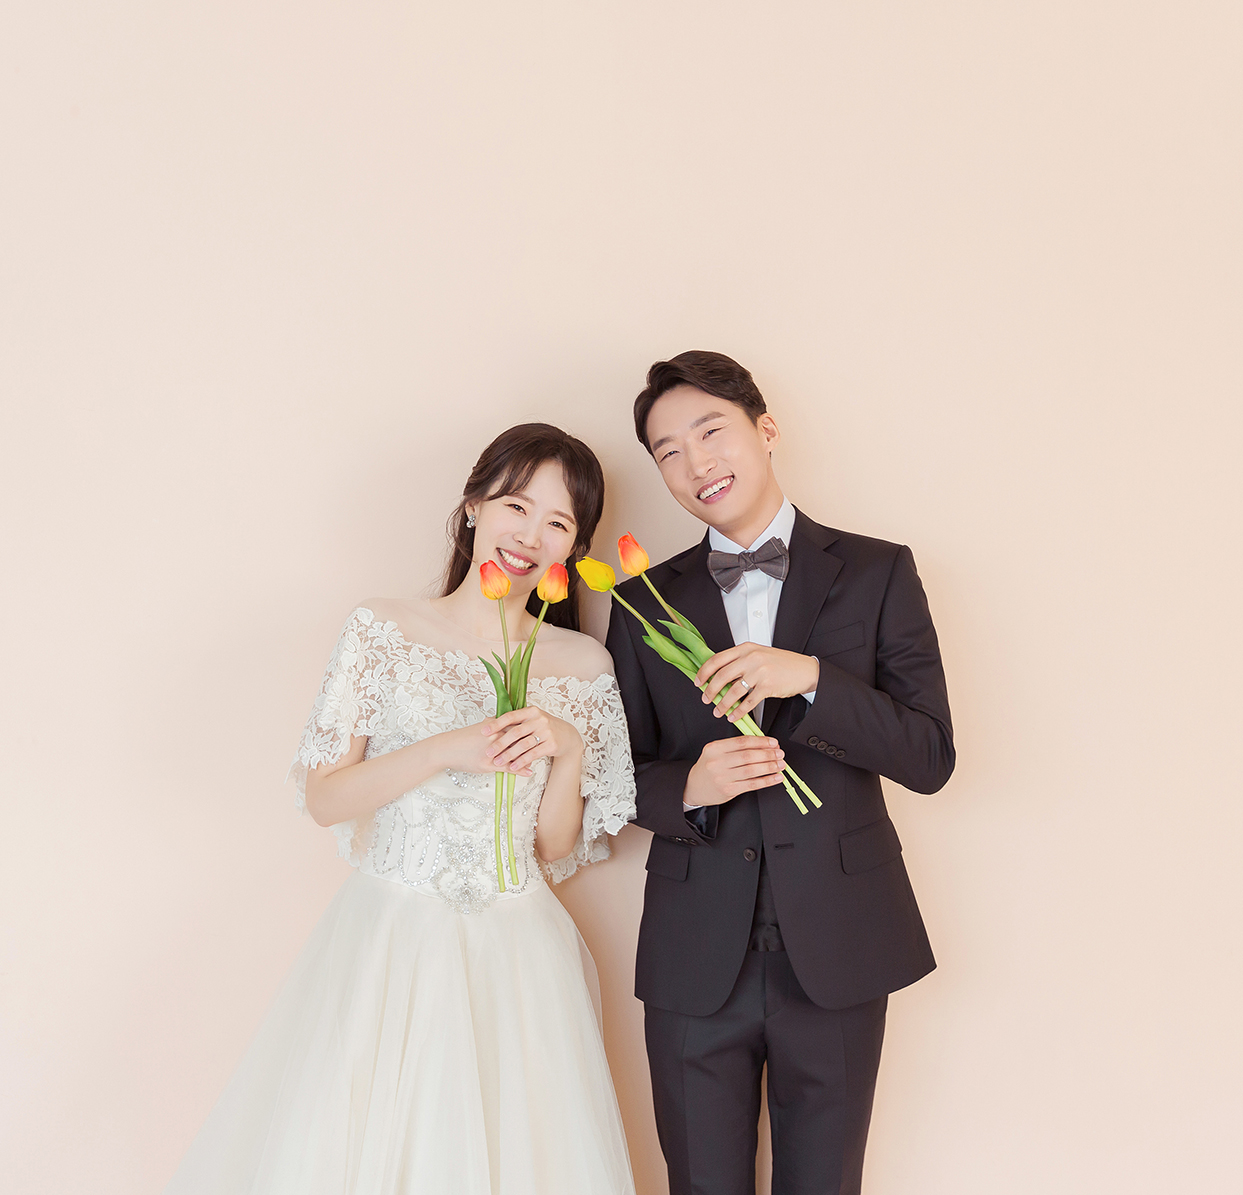
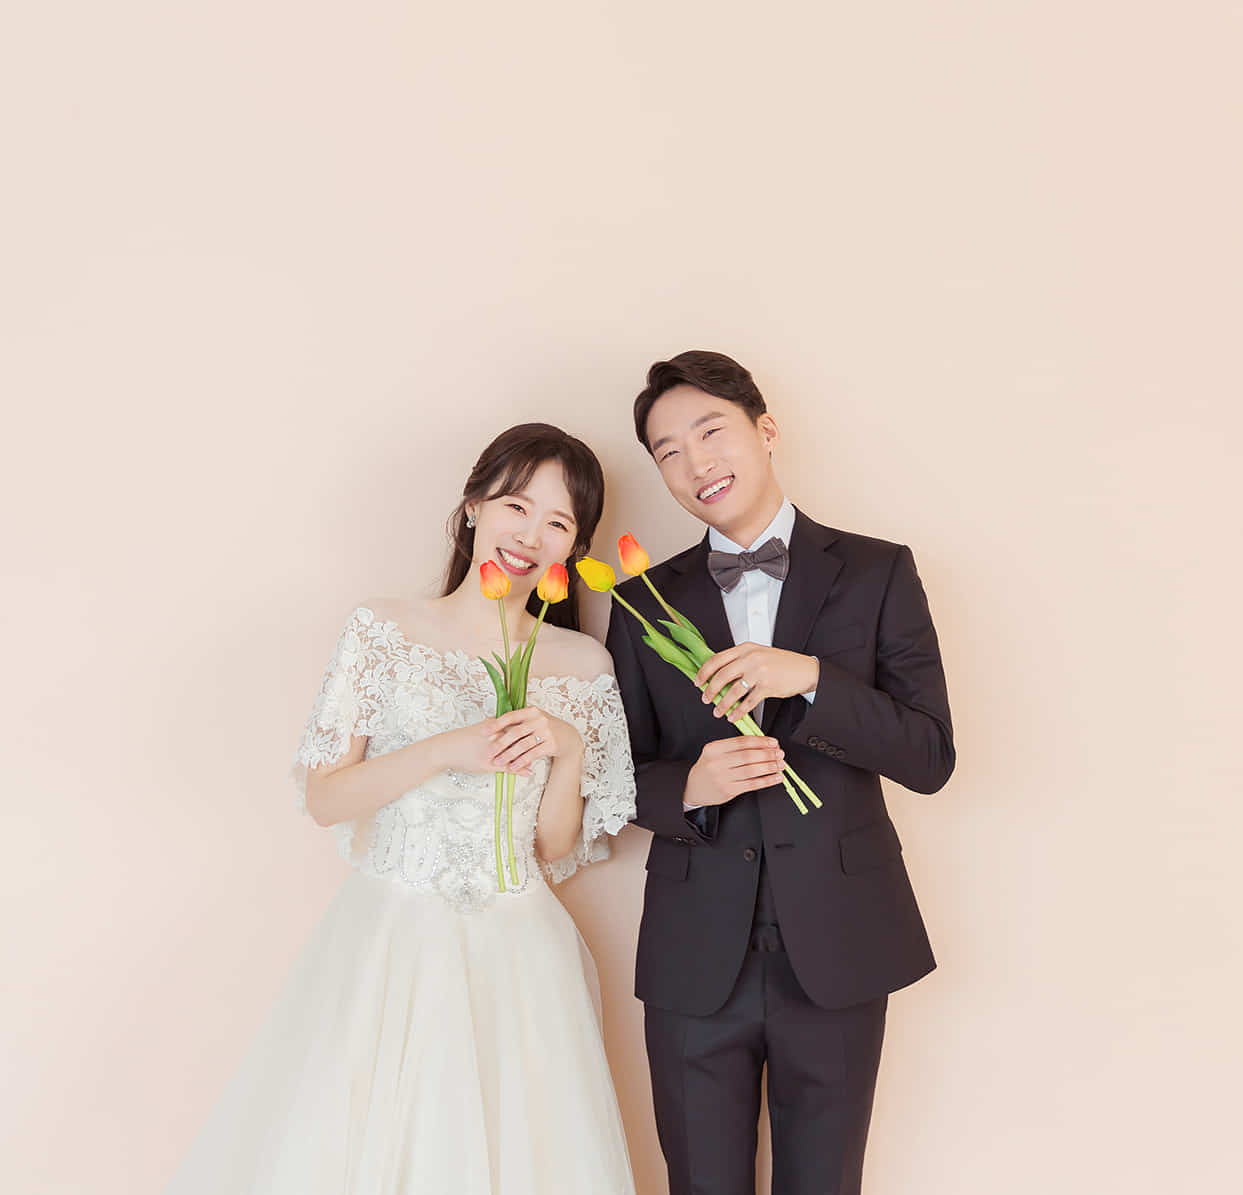
image resize

diff --git a/index.html b/index.html
@@ -15,13 +15,13 @@
 	</script>
 	<meta charset="utf-8">
 	<meta http-equiv="X-UA-Compatible" content="IE=edge">
-	<title>2020.02.23 14:20 윤비💕♥❤용범의 결혼예식에 초대합니다.(다온플라츠)</title>
+	<title>2020.02.23 14:20 윤비💕용범의 결혼예식에 초대합니다.</title>
 	<meta name="viewport" content="width=device-width, initial-scale=1">
-	<meta name="description" content="윤비💕♥❤용범의 결혼식에 초대합니다." />
+	<meta name="description" content="윤비💕용범의 결혼식에 초대합니다." />
 	<meta name="keywords" content="yongbum, yoonbi, wedding, marriage" />
 	<meta name="author" content="yongbum" />
 
-	<meta property="og:title" content="윤비💕♥❤용범의 결혼식에 초대합니다."/>
+	<meta property="og:title" content="윤비💕용범의 결혼식에 초대합니다."/>
 	<meta property="og:image" content="images/photo/cover1edit.jpg"/>
 	<meta property="og:url" content="/"/>
 	<meta property="og:site_name" content="윤비💕용범의 결혼식 초대장"/>
